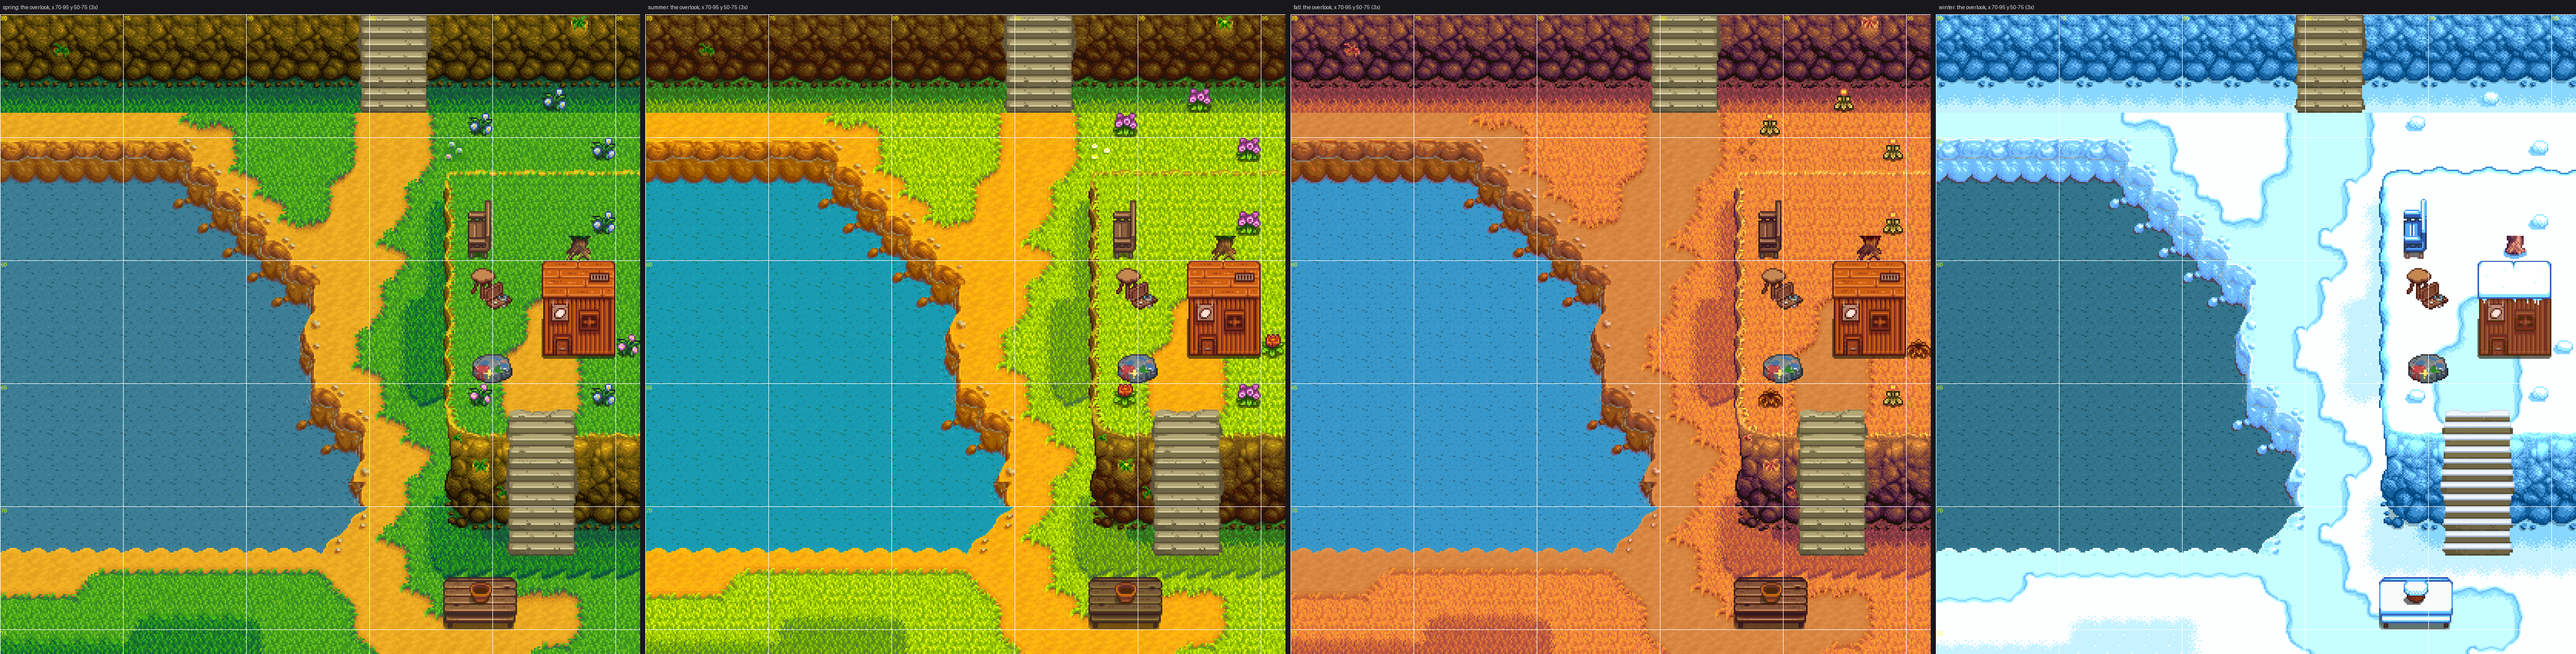
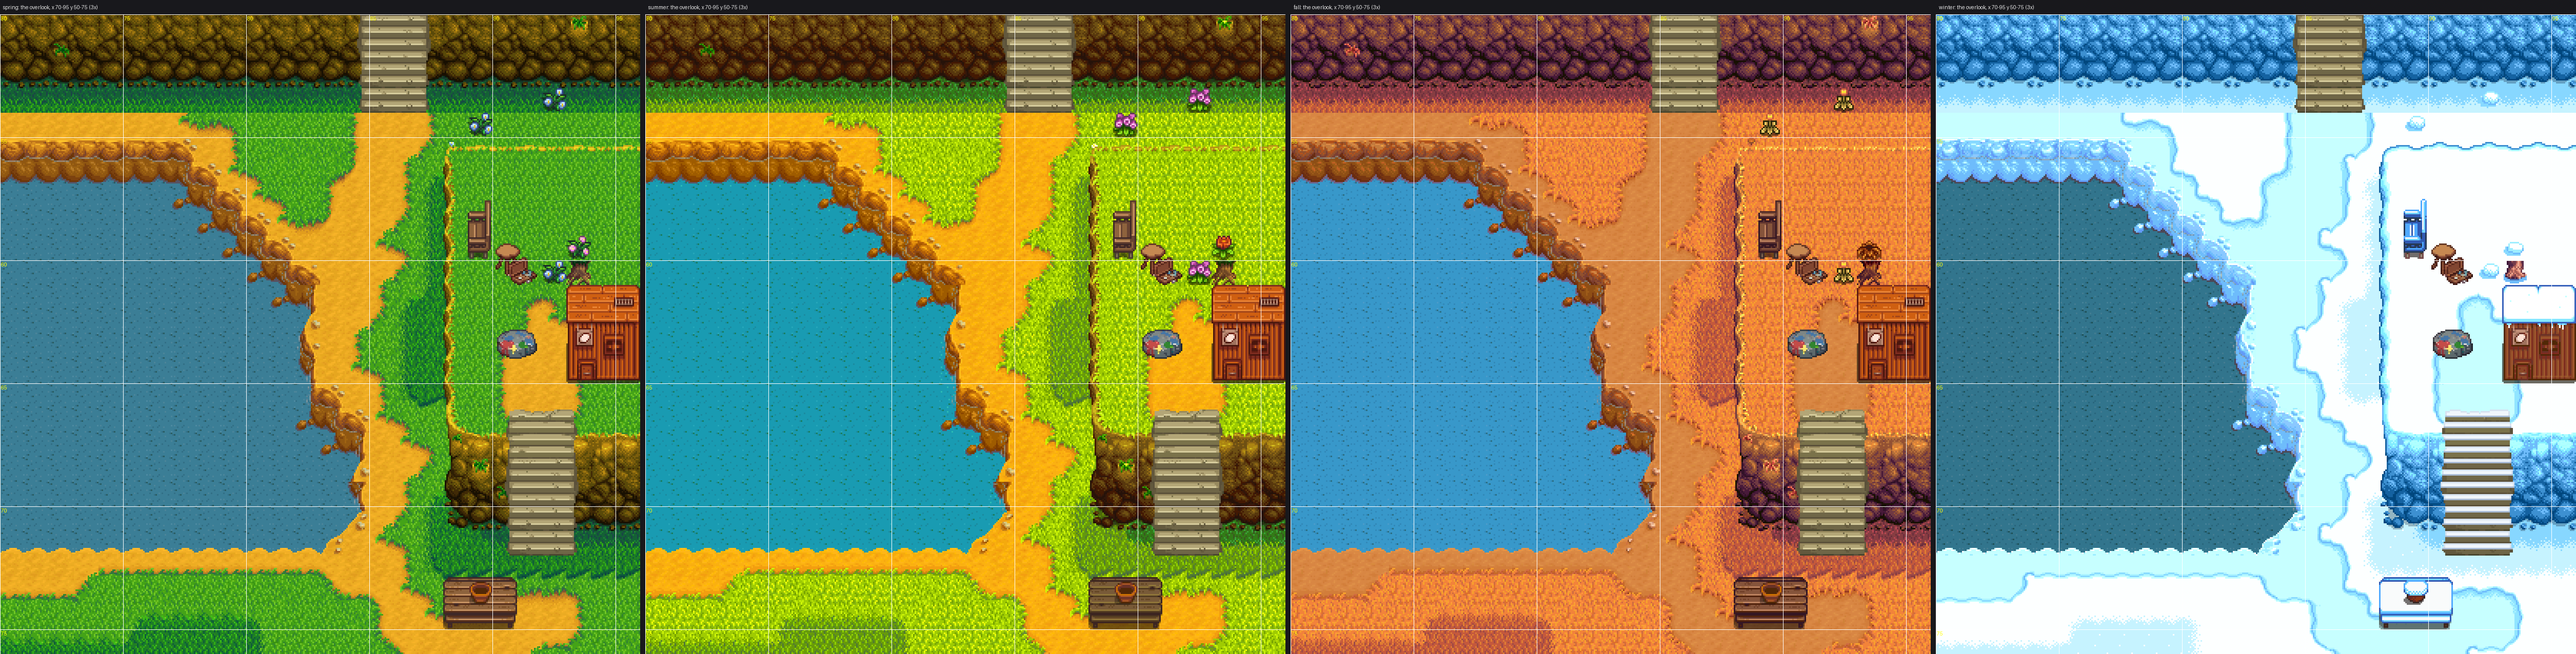
Gilded Vale overlook, review round 1: the fringe, the Three Trees, the lake's corner, the rebuild
- The rim moves to row 55 (and OVERLOOK_BOX takes in row 53, the woods behind it): only a
  top this deep holds the bench, the easels, the painting spot, the shed and three trees
  with no crown over the rest. The woods north of the rim (rows 53-54) are thinned.
- The Three Trees stand inward, crowns on the map and clear of the shed's roof: maple
  (94,56), oak (93,58), pine (94,60); the stump of the fourth beside them at (93,60).
- A fringe of woods down the east edge below the face and along the south edge where the
  trail, the picnic table and the steps' foot leave room.
- The painting spot and the flowers move a tile in from the side; the bench alone stays
  against it, facing the lake. Lupini's Friday follows the spot to (90,61).
- The lake's south-east bank ends as Town's shore does: 211, then 261, then the diagonal.
- vale_decor's shared generator: the overlook's old lines are restored so the rebuild's
  decor outside the box is unchanged (tested against b17e01a); patch_file clears its box.

diff --git a/tools/vale_overlook.py b/tools/vale_overlook.py
@@ -164,7 +164,9 @@ def lay_lip(m, ctx, x0, x1, y):
     """The bluff's north edge, toward the lake, on row y from x0 (its north-west corner)
     to x1. The rim tile's top is see-through: the lower ground under it is the painter's;
     the plateau's grass starts on the corners below it."""
-    _paint(m, ctx, {(cx, y + 1): "G" for cx in range(x0 + 1, x1 + 2)}, (x0 - 1, y - 1, x1 + 1, y + 1))
+    # (from row y: the rim sets no corner above its own row, so the tiles above it stay as
+    # they are; one of them, under the terrace cliff's shading, isn't a plain piece)
+    _paint(m, ctx, {(cx, y + 1): "G" for cx in range(x0 + 1, x1 + 2)}, (x0 - 1, y, x1 + 1, y + 1))
     for x in range(x0, x1 + 1):
         _clear(m, x, y)
         m.g["Buildings"][y][x] = RIM_NW if x == x0 else RIM[(x - x0 - 1) % 2]
@@ -454,63 +456,78 @@ def lay_lake_corner(m, ctx):
     # the turn in a jog: the Town shore's own stacks there instead (Town (82,75), and
     # (83,74) above its diagonal; Town's (83,73) 5322 above that left a square step under
     # our short run's cap, so the painter's piece stays there)
-    for (x, y), stack in [((cx - 1, cy - 1), (bv.WATER, 0))] + [((cx, cy - 2 - k), s) for k, s in enumerate(LAKE_SE_TURN)]:
+    for (x, y), stack in ([((cx - 1, cy - 1), (bv.WATER, 0)), ((cx, cy - 1), LAKE_SE_END)]
+                          + [((cx, cy - 2 - k), s) for k, s in enumerate(LAKE_SE_TURN)]):
         m.g["Back"][y][x], m.g["Buildings"][y][x] = stack
         _laid(m, x, y)
 
 
 # --- the overlook as built (Task 5) ----------------------------------------------------
-# The bluff: its north rim on row 56, its west side down column 88 (rows 57-65), its south
-# face from row 66, so its top is x 89-95, y 57-65. The rim is a row further north than the
-# plan drew, because the steps take the south face (no vanilla flight climbs south) and the
-# face takes six rows: one row more of top is room for the bench, the easels, the trees and
-# the shed together. The lower ground between the rim and the terrace cliff's shading stays
-# two rows deep, as the Forest's terraces step.
-RIM_Y = 56
+# The bluff: its north rim on row 55, its west side down column 88 (rows 56-65), its south
+# face from row 66, so its top is x 89-95, y 56-65. The rim is further north than the plan
+# drew: the steps take the south face (no vanilla flight climbs south) and the face takes six
+# rows, and only a top this deep holds the bench, the easels' row, the painting spot, the
+# shed and the Three Trees with none of their crowns over the rest (searched: with the rim
+# on 56 no arrangement fits). North of the rim one row of the lower ground stays, under the
+# terrace cliff's shading, as the Forest's terraces step.
+RIM_Y = 55
 SIDE_X = 88
 FACE_TOP = 66
-SIDE_WIDENS = 5              # the side's skirt is two tiles wide from row 62 (the path beside it wanders above)
+SIDE_WIDENS = 6              # the side's skirt is two tiles wide from row 62 (the path beside it wanders above)
 STAIRS_X = 90                # the flight's left wall; treads on x 91-92
 # The overlook bench, at the north-west corner. Town and the Forest have no bench seen
 # from behind, so it's Town's side bench facing west (vale_decor "bench_w"), its back to
 # the easels, looking out over the lake: its top on Front, its two seat rows on Buildings
-# (as Town lays it). BENCH is its upper seat tile; the bench stands against the side's lip.
+# (as Town lays it). BENCH is its upper seat tile. It alone stands against the side's lip:
+# a step further in, the lake behind the lip is out of its view, and the top has no column
+# to spare (the painting spot, the lane and the shed take the rest).
 BENCH = (89, 58)
 BENCH_FACING = 3             # west, over the lake
-EASELS = (90, 92, 58)        # x0, x1, row: the 10-heart scene's easels, beside the bench, at the north edge
+# x0, x1, row: where the 10-heart scene's painters stand, beside the bench; their easels go
+# a row further north, at the edge (row 57), the woods beyond it thinned so they look out
+# over the Vale.
+EASELS = (90, 92, 58)
 # Lupini's lake painting spot (build_vale.PICKS spot_lake_*): left tile and base row of
-# each 2 x 2 piece, along the west edge under the bench, looking over the lake. He stands
+# each 2 x 2 piece, a tile in from the west side, under the bench, over the lake. He stands
 # between them, facing it.
-STOOL = (89, 61)
-ROCK = (89, 64)
-LUPINI_STAND = (89, 62)
+STOOL = (90, 60)
+ROCK = (90, 63)
+LUPINI_STAND = (90, 61)
 # The shed, where the third easel is kept: the game's own little plank hut (outdoors sheet,
 # Town numbering): its plank roof with the vent (sheet x 22-24, rows 69-70) over its walls
 # with the window and the door (x 15-17, rows 76-77). The sheet keeps the two halves apart,
 # but they meet pixel for pixel (the sign's cords run on from the roof's row into the wall's),
 # and every season is in the sheets (snow on the roof in winter). x0, y0, x1, y1; y1 its base.
-SHED = (92, 60, 94, 63)
+# Its door opens onto the steps' landing.
+SHED = (93, 61, 95, 64)
 SHED_ART = ((1748, 1749, 1750), (1773, 1774, 1775), (1916, 1917, 1918), (1941, 1942, 1943))
 # The Three Trees (Paths markers: 9 oak, 10 maple, 11 pine) and the stump of the fourth, at
-# the north-east, clear of the bench, the easels and the shed: a tree's crown is 3 wide and
-# stands 2-5 rows above its trunk, so these hang out over the rim and the map's east edge.
-TREES = ((93, 57, 10), (95, 58, 9), (95, 61, 11))
-STUMP = (93, 59, 128)        # the game's own stump with its roots (outdoors 128, Forest (33,2)): a map tile, it can't be chopped
-FRINGE = ((95, 73, 9), (95, 75, 11))   # the woods along the bottom edge that stay (clear of the flight)
+# the north-east, inward: a tree's crown is 3 wide and stands 2-5 rows above its trunk, so
+# these hang out over the rim and the lower ground, on the map, clear of the bench, the
+# easels' row and the shed's roof. The woods behind them (rows 53-54) go, so they stand apart.
+TREES = ((94, 56, 10), (93, 58, 9), (94, 60, 11))
+STUMP = (93, 60, 128)        # the game's own stump with its roots (outdoors 128, Forest (33,2)): a map tile, it can't be chopped
+THIN = (88, 53, 95, 54)      # the woods north of the rim that go
+# The woods that ring the Vale, round the bluff: down the east edge below the face, and
+# along the south edge where the trail, the picnic table and the steps' foot leave room
+# (the trail along the face's foot takes the bottom rows between them).
+FRINGE = ((95, 71, 10), (95, 73, 9), (95, 75, 11), (87, 72, 9), (84, 74, 11),
+          (81, 73, 10), (82, 74, 10), (81, 75, 11), (83, 75, 10))
 PICNIC = (88, 72)            # vale_decor "picnic", at the bluff's foot by the lake's corner: no room on top
-FLOWERS = ((94, 58, 308), (95, 63, 258), (94, 65, 308), (89, 65, 258))
+FLOWERS = ((92, 60, 308), (93, 59, 258))
 # The lakeside path along the bluff's west foot: its east edge (the last sand corner) on
 # each corner row. It wanders a corner in and out, kept a corner of grass from the skirt.
-# (North of the bluff, rows 54-56, it stays as it is: x 85-87.)
-PATH_EAST = {57: 86, 58: 86, 59: 85, 60: 86, 61: 85, 62: 85, 63: 84, 64: 84,
+# (North of the bluff, rows 54-55, it stays as it is: x 85-87.)
+PATH_EAST = {56: 86, 57: 86, 58: 86, 59: 85, 60: 86, 61: 85, 62: 85, 63: 84, 64: 84,
              65: 85, 66: 85, 67: 86, 68: 87, 69: 86, 70: 86, 71: 85, 72: 86, 73: 86}
-PATH_NARROW = {57: 84, 58: 84}  # where it still runs apart from the lake's sand: its west edge
+PATH_NARROW = {56: 85, 57: 84, 58: 84}  # where it still runs apart from the lake's sand: its west edge
 PATH_MEETS_LAKE = range(59, 72)  # rows where it runs into the lake's sand (the grass between goes)
 # The trail along the south foot to the flight: sand corners (x0, x1) by row. It dips under
 # the picnic table and rises to the flight's foot (corner row 74, below the skirt and its row
-# of grass: lay_face), so neither of its edges runs straight.
-SOUTH_PATH = {74: ((85, 87), (91, 93)), 75: ((85, 93),), 76: ((86, 91),)}
-CLEAR_BOX = (84, 56, 95, 75)  # what's cleared of props, markers and decor before laying
+# of grass: lay_face), so neither of its edges runs straight; its west end leaves a tile of
+# grass for the woods by the lake's corner.
+SOUTH_PATH = {74: ((86, 87), (91, 93)), 75: ((86, 93),), 76: ((87, 91),)}
+CLEAR_BOX = (84, 55, 95, 75)  # what's cleared of props, markers and decor before laying
 
 
 # --- the test strip (Task 4): a scratch copy only -------------------------------------
@@ -520,7 +537,12 @@ STRIP_SIDE_TO = 65            # the side's last row; the face's lip row is the n
 STRIP_STAIRS_X = 90
 STRIP_BOX = (86, 57, 95, 75)  # what the strip clears of props, trees and decor first
 LAKE_SE = (84, 71)            # the lake's south-east water corner (OVERLOOK_BOX), cut by lay_lake_corner
-LAKE_SE_TURN = ((5226, 211),)  # the east bank's last piece above the cut, upward (Town (83,74))
+# the east bank's last pieces above the cut, upward: Town (83,74)'s end, and the painter's
+# own cycle piece over it (fixed: re-chosen each run against what the last run left, it
+# flipped between 5290 and 236)
+LAKE_SE_TURN = ((5226, 211), (1230, 5290))
+LAKE_SE_END = (1230, 261)     # under it, where the bank turns onto the diagonal (Town (83,75)): without it the
+                              # 211 ended in a vertical cut and the diagonal was two 214s, a ruler-straight line
 
 
 def lay_test_strip(tmx_path, exports):
@@ -680,6 +702,11 @@ def patch_file(tmx_path, exports):
     for x, y, gid in FLOWERS:
         if plain(x, y):
             m.g["Back2"][y][x] = gid
+    tx0, ty0, tx1, ty1 = THIN
+    for y in range(ty0, ty1 + 1):
+        for x in range(tx0, tx1 + 1):
+            _inside(x, y)
+            m.g["Paths"][y][x] = 0
     # the woods round the box's edge stay only where their ground is still plain grass
     bx0, by0, bx1, by1 = OVERLOOK_BOX
     for y in range(by0, by1 + 1):

diff --git a/tools/test_vale_pieces.py b/tools/test_vale_pieces.py
@@ -226,11 +226,85 @@ def test_overlook_paint_spot_moved():
 
 
 def test_schedules_moved():
-    from vale_overlook import BENCH
+    from vale_overlook import BENCH, LUPINI_STAND
     lu, em = load_jsonc(LUPINI_SCHEDULE), load_jsonc(EMMETT_SCHEDULE)
     assert f"1400 blinxxy.MuseArt_GildedVale {BENCH[0]} {BENCH[1]}" in lu["Sun"]
     assert f"1300 blinxxy.MuseArt_GildedVale {BENCH[0]} {BENCH[1]}" in em["Sat"]
     assert "88 59" not in lu["Fri"]
+    assert f"900 blinxxy.MuseArt_GildedVale {LUPINI_STAND[0]} {LUPINI_STAND[1]} 3" in lu["Fri"]   # beside his stool, facing the lake
+
+
+def crown(x, r):
+    """The tiles a tree's crown covers (a Paths-marker tree is 3 wide, 6 tall over its trunk)."""
+    return {(x + i, r - k) for i in (-1, 0, 1) for k in range(2, 6)}
+
+
+def test_overlook_trees_and_fringe():
+    # the Three Trees stand inward, their crowns on the map and clear of the bench, the
+    # easels' row and the shed's roof; the stump is beside them; a fringe of woods stays
+    # along the east and south edges, clear of the trail and the steps' foot
+    from vale_overlook import BENCH, EASELS, FRINGE, SHED, STUMP, TREES
+    m, paths_first = load(TMX), 1976
+    x0, y0, x1, y1 = SHED
+    shed = {(x, y) for x in range(x0, x1 + 1) for y in range(y0, y1 + 1)}
+    ex0, ex1, ey = EASELS
+    keep_clear = shed | {(BENCH[0], BENCH[1] + d) for d in (-1, 0, 1)} | {(x, ey) for x in range(ex0, ex1 + 1)}
+    for x, r, k in TREES:
+        assert m.g["Paths"][r][x] == paths_first + k, (x, r)
+        assert 91 <= x <= 94, (x, r)
+        assert all(0 <= cx < W for cx, _ in crown(x, r)), (x, r)
+        assert not crown(x, r) & keep_clear, (x, r, crown(x, r) & keep_clear)
+    sx, sy, _ = STUMP
+    assert min(abs(sx - x) + abs(sy - r) for x, r, _ in TREES) <= 2
+    east = [(x, y) for x, y, _ in FRINGE if x == 95]
+    south = [(x, y) for x, y, _ in FRINGE if y >= 72]
+    assert len(east) >= 3 and len(south) >= 4, FRINGE
+    for x, y, k in FRINGE:
+        assert m.g["Paths"][y][x] == paths_first + k, (x, y)
+    # nothing stands in the woods north of the rim, above the easels
+    assert not any(m.g["Paths"][y][x] for y in (53, 54) for x in range(88, 96))
+
+
+def test_overlook_props_inside():
+    # the painting spot and the flowers stand at least a tile in from the side and the
+    # face's lip; the bench alone stands against the side, facing over the lake
+    from vale_overlook import FACE_TOP, FLOWERS, RIM_Y, ROCK, SIDE_X, STOOL
+    for sx, sy in (STOOL, ROCK):
+        assert sx >= SIDE_X + 2 and sy - 1 >= RIM_Y + 2 and sy <= FACE_TOP - 2, (sx, sy)
+    for x, y, _ in FLOWERS:
+        assert x >= SIDE_X + 2 and RIM_Y + 2 <= y <= FACE_TOP - 2, (x, y)
+
+
+def test_overlook_lake_corner():
+    # the lake's east bank ends as Town's shore does (Town x 83 rows 74-76): the vertical
+    # cycle's end 211, then 261 under it, then the diagonal's 214
+    m = load(TMX)
+    assert (m.g["Back"][69][84], m.g["Buildings"][69][84]) == (5226, 211)
+    assert (m.g["Back"][70][84], m.g["Buildings"][70][84]) == (1230, 261)
+    assert (m.g["Back"][71][83], m.g["Buildings"][71][83]) == (1230, 214)
+
+
+def test_decor_rebuild_unchanged_outside_overlook():
+    # vale_decor shares one random generator: the rebuild's decor outside the overlook's
+    # box is what it was before Task 5 (b17e01a), tile for tile
+    import importlib.util
+    old_src = subprocess.run(["git", "show", "b17e01a:tools/vale_decor.py"], cwd=ROOT,
+                             capture_output=True, check=True).stdout.decode("utf-8")
+    grids = []
+    for src in (old_src, open(os.path.join(HERE, "vale_decor.py"), encoding="utf-8").read()):
+        mod = importlib.util.module_from_spec(importlib.util.spec_from_loader("decor_copy", loader=None))
+        exec(compile(src, "vale_decor_copy", "exec"), mod.__dict__)
+        g = {l: [[0] * W for _ in range(H)] for l in build_vale.LAYERS}
+        for row in g["Back"]:
+            row[:] = [176] * W
+        with contextlib.redirect_stdout(io.StringIO()):
+            mod.decor(g, {(176, 0): ("G",) * 4}, 1976, W, H)
+        grids.append(g)
+    old, new = grids
+    for layer in old:
+        for x, y in all_tiles():
+            if not in_any_box(x, y):
+                assert old[layer][y][x] == new[layer][y][x], (layer, x, y)
 
 
 if __name__ == "__main__":

diff --git a/tools/vale_decor.py b/tools/vale_decor.py
@@ -20,7 +20,7 @@ import random
 # reachable_spot): fenced yards and the orchard's trees, (x0, y0, x1, y1) inclusive.
 # The last two: the atelier's bench, and the overlook (vale_patch.OVERLOOK_BOX: the bluff
 # tools/vale_overlook.py raises there, with the lake's painting spot on it).
-RESERVED = [(82, 13, 90, 22), (9, 55, 14, 60), (87, 2, 94, 10), (84, 25, 88, 26), (80, 54, 95, 75)]
+RESERVED = [(82, 13, 90, 22), (9, 55, 14, 60), (87, 2, 94, 10), (84, 25, 88, 26), (80, 53, 95, 75)]
 
 # Tile property objects for the writer: (layer, x, y) -> {name: value}
 TILE_PROPS = {}
@@ -229,10 +229,15 @@ def decor(g, ground, paths_first, W, H):
     for x, y, t in ((5, 57, MAPLE), (27, 60, OAK), (31, 72, PINE)):        # (the Gilded Tree's lawn is x 33-44)
         marker(x, y, t, why="lower trees")
 
-    # N: a picnic spot at the foot of the overlook's bluff, by the lake's corner (its top has
-    # no room: the bench, the easels, the Three Trees and the shed; tools/vale_overlook.py,
-    # PICNIC, which lays it again with the bluff)
-    prop("picnic", 88, 72)
+    # N: a picnic spot at the end of the east trail. (The overlook's bluff stands here now:
+    # tools/vale_overlook.py clears its box and lays the picnic table at its foot, PICNIC.
+    # These stay as they were, so the generator the decor shares draws the same for
+    # everything after them, outside the box.)
+    prop("picnic", 89, 64)
+    for x, y, k in ((88, 60, BUSH_M), (92, 69, BUSH_S), (93, 60, BUSH_S)):
+        marker(x, y, k, BUSH_W[k], "picnic bush")
+    for x, y, t in ((94, 66, MAPLE), (90, 72, OAK)):
+        marker(x, y, t, why="picnic tree")
 
     # The cohesion pass (the user, 2026-11-06, after Timberline Falls: "we're missing
     # things like nature, fences, bushes"): every home gets a yard, the grass gets its
@@ -255,7 +260,9 @@ def decor(g, ground, paths_first, W, H):
     clump(91, 52, PINE)
     clump(26, 70, OAK)
     # stones here and there, as the game's grass has
-    for x, y in ((16, 12), (6, 25), (39, 24), (58, 30), (70, 44), (90, 43), (4, 50), (24, 57), (29, 66), (8, 72), (47, 66)):
+    # ((92, 62) is on the overlook now: vale_overlook clears it; it stays here so the
+    # shared generator draws the same for everything after it)
+    for x, y in ((16, 12), (6, 25), (39, 24), (58, 30), (70, 44), (90, 43), (4, 50), (24, 57), (29, 66), (8, 72), (92, 62), (47, 66)):
         rock(x, y)
     # flowers through every open stretch (the meadow thickest)
     flowers(0, 10, 20, 27, 0.03, 0.04)          # the upper west
@@ -265,7 +272,7 @@ def decor(g, ground, paths_first, W, H):
     flowers(64, 42, 95, 47, 0.05, 0.06)         # below the Old Studios
     flowers(2, 62, 31, 75, 0.12, 0.25)          # Fern's meadow
     flowers(0, 54, 50, 75, 0.03, 0.03)          # the rest of the lower terrace
-    flowers(84, 54, 95, 55, 0.04, 0.04)         # below the lower cliff, north of the overlook (off its edges and steps)
+    flowers(84, 54, 95, 75, 0.04, 0.04)         # the overlook's side (vale_overlook clears its box; the call stays for the generator)
     flowers(0, 26, 56, 27, 0.06)                # along the upper cliff's top
     flowers(0, 46, 95, 47, 0.05)                # and the lower one's
 

diff --git a/tools/build_vale.py b/tools/build_vale.py
@@ -77,8 +77,8 @@ PICKS = {
     "spot_meadow_rock": ("props/vale_props_v2/paint_rock_clean", 31, 66, 1, 0),
     # (the lake's: up on the overlook, along its west edge over the lake; laid where they
     # are here, not by reachable_spot, and moved with the bluff by tools/vale_overlook.py)
-    "spot_lake_stool": ("props/vale_props_v2/painters_stool_1_3", 89, 61, 1, 0),
-    "spot_lake_rock": ("props/vale_props_v2/paint_rock_clean", 89, 64, 1, 0),
+    "spot_lake_stool": ("props/vale_props_v2/painters_stool_1_3", 90, 60, 1, 0),
+    "spot_lake_rock": ("props/vale_props_v2/paint_rock_clean", 90, 63, 1, 0),
     "bus_shelter": ("props/vale_props_v1/bus_shelter_1_4", 3, 4, 2, 0),      # A: above the road's straight
     "vale_sign": ("props/vale_sign_gilded", 19, 4, 1, 0),   # gold lettering drawn on; lit at night (map property Light)         # A: where the high street starts
     "noticeboard": ("props/vale_props_v1/noticeboard_1_1", 41, 42, 1, 0),    # H: by the Hall's door

diff --git a/tools/vale_patch.py b/tools/vale_patch.py
@@ -16,7 +16,7 @@ sys.path.insert(0, os.path.dirname(os.path.abspath(__file__)))
 import build_vale as bv
 
 FALLS_BOX = (74, 0, 89, 13)          # the rim cliff, the fall and the basin
-OVERLOOK_BOX = (80, 54, 95, 75)      # the bluff, its steps, the lake's east shore below it
+OVERLOOK_BOX = (80, 53, 95, 75)      # the bluff, its steps, the lake's east shore below it (row 53: the woods behind its rim)
 SCULPTURE_BOX = (6, 43, 7, 45)       # the corner pocket (x 6-7, y 44-45) and the tile above it
 BOXES = {"falls": FALLS_BOX, "overlook": OVERLOOK_BOX, "sculpture": SCULPTURE_BOX}
 
